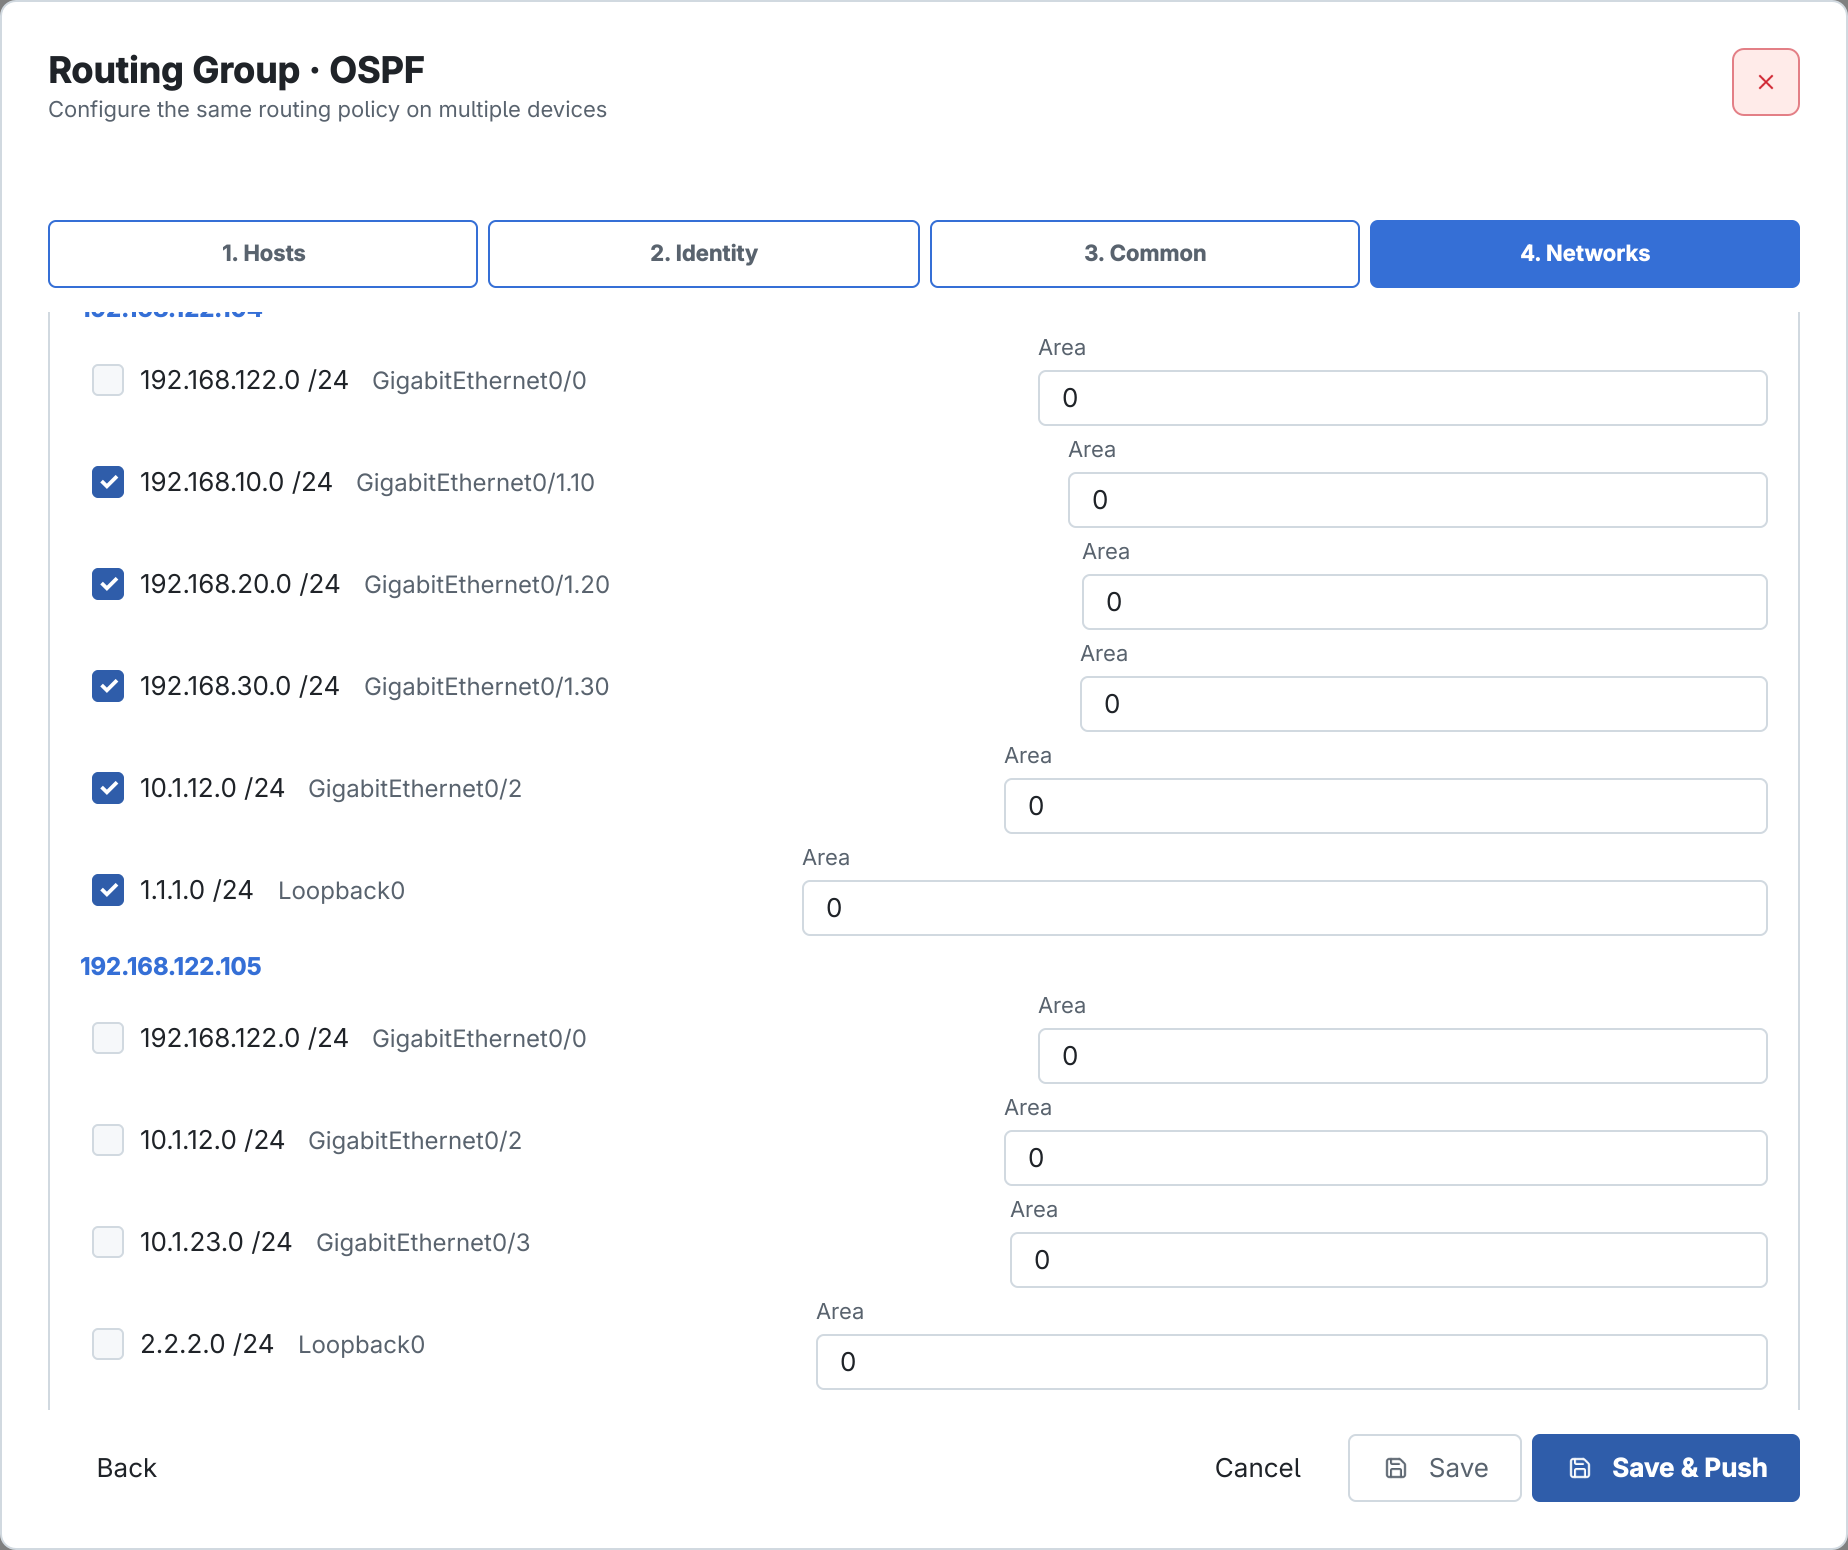
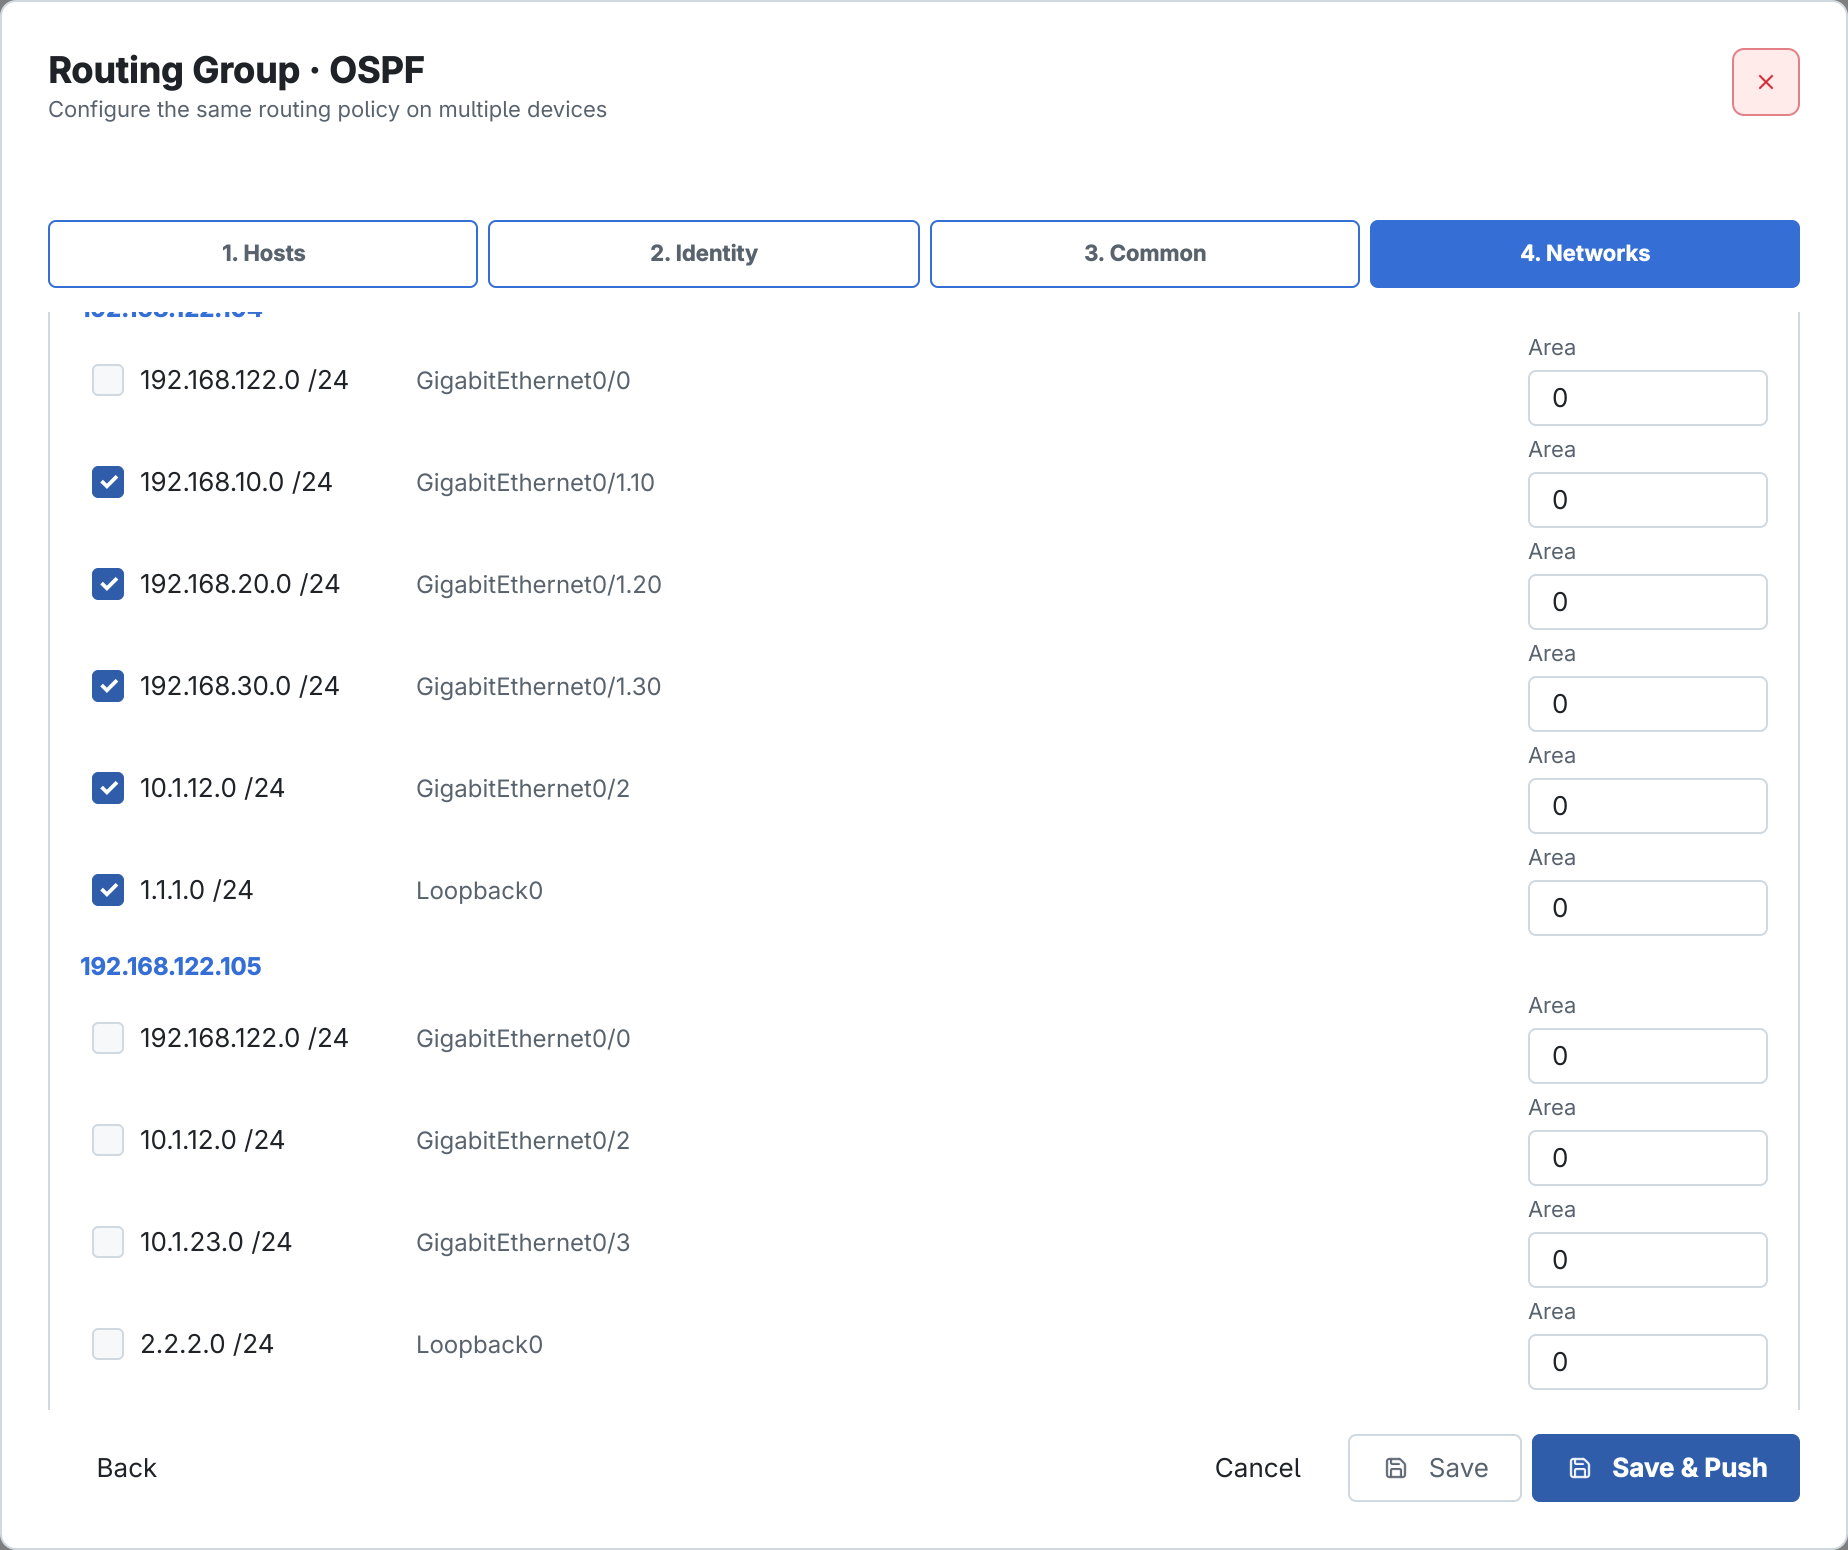
ui: Fixed Area with 'flexible' input

diff --git a/UI/qml/features/routing/group/RoutingGroupNetworkStep.qml b/UI/qml/features/routing/group/RoutingGroupNetworkStep.qml
@@ -9,6 +9,18 @@ FormSection {
     required property var targetModel
     required property var controller
     required property string protocol
+    readonly property bool compactColumns: width < 480
+    readonly property real networkColumnWidth: Math.ceil(networkLabelMetrics.width)
+                                               + Theme.checkboxSize
+                                               + Theme.spacing8 + Theme.spacing12
+    readonly property real areaColumnWidth: Math.max(100, Theme.inputMinimumWidth)
+
+    TextMetrics {
+        id: networkLabelMetrics
+        font.family: Theme.fontFamily
+        font.pixelSize: Theme.fontSizeNormal
+        text: "255.255.255.255 /32"
+    }
     title: protocol === "ospf"
            ? "Connected networks and OSPF area"
            : "Connected networks"
@@ -49,11 +61,17 @@ FormSection {
             }
             Repeater {
                 model: networks
-                delegate: RowLayout {
+                delegate: GridLayout {
                     required property int index
                     required property var modelData
                     Layout.fillWidth: true
+                    columns: root.compactColumns ? 2 : 3
                     StandardCheckBox {
+                        Layout.columnSpan: root.compactColumns ? 2 : 1
+                        Layout.fillWidth: root.compactColumns
+                        Layout.minimumWidth: root.compactColumns ? 0 : root.networkColumnWidth
+                        Layout.preferredWidth: root.networkColumnWidth
+                        Layout.maximumWidth: root.compactColumns ? Infinity : root.networkColumnWidth
                         text: modelData.network + " /" + modelData.prefix_length
                         checked: modelData.selected === true
                         onToggled: root.controller.updateNetwork(
@@ -62,13 +80,21 @@ FormSection {
                     }
                     Text {
                         Layout.fillWidth: true
+                        Layout.minimumWidth: 0
+                        Layout.preferredWidth: 0
+                        elide: Text.ElideRight
                         text: root.interfaceNames(modelData.interfaces)
                         color: Theme.textSecondary
                         font.family: Theme.fontFamily
                     }
                     StandardTextField {
+                        objectName: "routingGroupNetworkAreaField"
                         visible: root.protocol === "ospf"
-                        Layout.preferredWidth: 100
+                        // Override ColumnLayout's implicit stretch and shared input minimum.
+                        Layout.fillWidth: false
+                        Layout.minimumWidth: root.areaColumnWidth
+                        Layout.preferredWidth: root.areaColumnWidth
+                        Layout.maximumWidth: root.areaColumnWidth
                         labelText: "Area"
                         text: modelData.area || "0"
                         onTextEdited: value => root.controller.updateNetwork(

diff --git a/tests/qml/RoutingGroupNetworkGeometryHarness.qml b/tests/qml/RoutingGroupNetworkGeometryHarness.qml
@@ -1,0 +1,41 @@
+import QtQuick
+import QtQuick.Controls.Basic
+import UI
+
+ApplicationWindow {
+    width: 1000
+    height: 840
+    visible: true
+    property alias dialog: networkDialog
+
+    RoutingGroupDialog {
+        id: networkDialog
+        parent: Overlay.overlay
+    }
+
+    Component.onCompleted: {
+        const networks = [
+            {network: "192.168.122.0", prefix_length: 24, wildcard: "0.0.0.255",
+             interfaces: [{interface_name: "GigabitEthernet0/0"}]},
+            {network: "192.168.10.0", prefix_length: 24, wildcard: "0.0.0.255",
+             interfaces: [{interface_name: "GigabitEthernet0/1.10"}]},
+            {network: "10.1.12.0", prefix_length: 24, wildcard: "0.0.0.255",
+             interfaces: [{interface_name: "GigabitEthernet0/2"},
+                          {interface_name: "GigabitEthernet0/3.1234"}]},
+            {network: "1.1.1.0", prefix_length: 24, wildcard: "0.0.0.255",
+             interfaces: [{interface_name: "Loopback0"}]}
+        ]
+        networkDialog.populateTargets([
+            {host: "192.168.122.104", device_name: "R1", networks: networks},
+            {host: "192.168.122.105", device_name: "R2", networks: networks},
+            {host: "192.168.122.106", device_name: "R3", networks: networks}
+        ])
+        for (let i = 0; i < 3; ++i) {
+            networkDialog.updateSelected(i, true)
+            networkDialog.updateNetwork(i, 0, "selected", true)
+            networkDialog.updateNetwork(i, 0, "area", "7")
+        }
+        networkDialog.stepIndex = 3
+        networkDialog.open()
+    }
+}

diff --git a/tests/test_qml_smoke.py b/tests/test_qml_smoke.py
@@ -252,6 +252,43 @@ class QmlSmokeTests(unittest.TestCase):
         self.assertEqual(limit_map["targets"], 5)
         self.assertIn("at most 5 hosts", limit_map["error"])
 
+    def test_routing_group_network_area_columns_align_across_hosts_and_widths(self) -> None:
+        window = self._create("tests/qml/RoutingGroupNetworkGeometryHarness.qml")
+        self.assertTrue(QTest.qWaitForWindowExposed(window, 1000))
+        dialog = window.property("dialog")
+        targets_before = dialog.selectedTargets().toVariant()
+
+        def area_fields():
+            pending = [window.contentItem()]
+            fields = []
+            while pending:
+                item = pending.pop()
+                pending.extend(item.childItems())
+                if item.property("labelText") == "Area":
+                    fields.append(item)
+            return fields
+
+        for width in (1000, 720, 500):
+            with self.subTest(window_width=width):
+                window.setWidth(width)
+                QTest.qWait(50)
+                fields = area_fields()
+                self.assertEqual(len(fields), 12)  # Four networks on each of R1/R2/R3.
+                geometry = [
+                    (field.mapToItem(window.contentItem(), QPointF(0, 0)).x(),
+                     field.width())
+                    for field in fields
+                ]
+                self.assertLessEqual(max(x for x, _ in geometry)
+                                     - min(x for x, _ in geometry), 1, geometry)
+                self.assertLessEqual(max(w for _, w in geometry)
+                                     - min(w for _, w in geometry), 1, geometry)
+                self.assertGreaterEqual(min(w for _, w in geometry), 100)
+                self.assertTrue(all(x >= 0 and x + w <= width for x, w in geometry),
+                                geometry)
+                self.assertEqual(dialog.selectedTargets().toVariant(), targets_before)
+        self.assertEqual(self.warnings, [])
+
     def test_view_push_polling_stops_when_database_manager_shuts_down(self) -> None:
         button = self._create_with_properties(
             "UI/qml/shared/ViewPushButton.qml",
